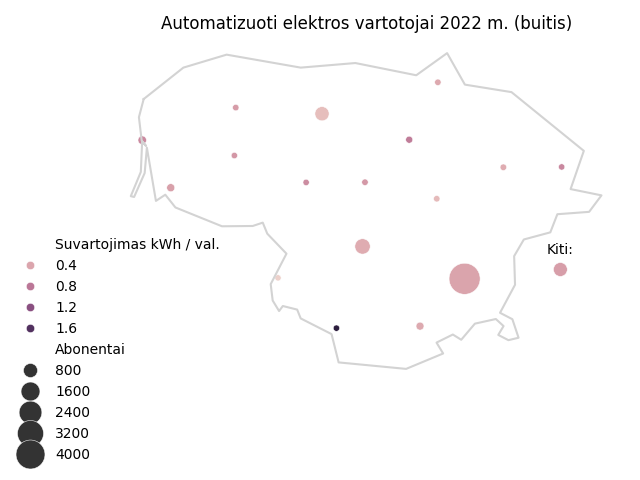
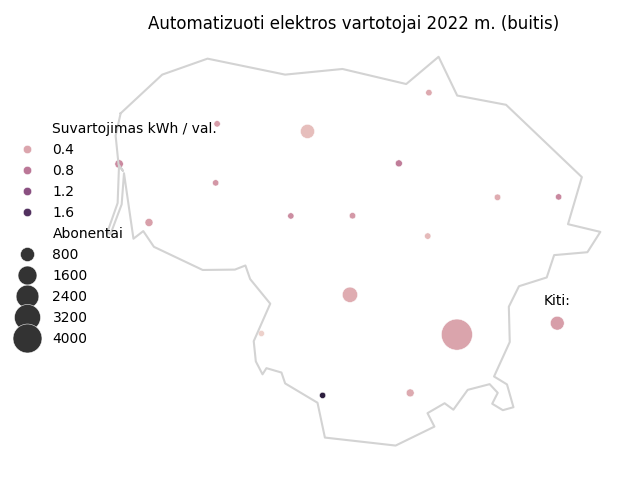
žemėlapyje didesnes legendas visada nustumti į kairio krašto vidurį

diff --git a/zemelapis.py b/zemelapis.py
@@ -163,26 +163,12 @@ def žemėlapis(duomenys=None, skersmuo=None, spalva=None, stilius=None,
     if len(kintamieji_su_pavadinimu) < 2:  # nėra ar tik 1 duomenų kintamasis legendoje
         plt.legend(loc='lower left')  # legendos vieta apačioje kairėje
     else:
-        if (all([len(k) < 10 for k in kintamieji_su_pavadinimu]) or  # trumpi pavadinimai užima mažiau vietos
-                len(duomenys['Regionas'].unique()) < 6):
-            sns.move_legend(
-                ax, "lower left", bbox_to_anchor=(-0.14, -0.14),  # nustumti dar papildomai į kairę
-                ncol=len(kintamieji_su_pavadinimu),  # stulpelių skaičius
-                frameon=False  # be rėmelio pusiau skaidraus fono
-            )
-        elif all([len(k) < 15 for k in kintamieji_su_pavadinimu]):  # vidutinio ilgio
-            sns.move_legend(  # gerai žiūrisi su gyventojais pagal amžių
-                # ax, 'lower left', bbox_to_anchor=(-0.1, -0.15),  # nustumti dar papildomai į kairę
-                ax, 'center left', bbox_to_anchor=(-0.15, 0.54),  # nustumti dar papildomai į kairę
-                # ax, "lower left", bbox_to_anchor=(-0.2, 0.2),  # nustumti dar papildomai į kairę
-                frameon=False  # be rėmelio pusiau skaidraus fono
-            )
-        else:  # didesnės lentelės
-            sns.move_legend(
-                ax, 'center left', bbox_to_anchor=(-0.2, 0.1),  # nustumti dar papildomai į kairę
-                # ax, "lower left", bbox_to_anchor=(-0.2, 0.2),  # nustumti dar papildomai į kairę
-                frameon=False  # be rėmelio pusiau skaidraus fono
-            )
+        sns.move_legend(  # gerai žiūrisi su gyventojais pagal amžių
+            # ax, 'lower left', bbox_to_anchor=(-0.1, -0.15),  # nustumti dar papildomai į kairę
+            ax, 'center left', bbox_to_anchor=(-0.15, 0.54),  # nustumti dar papildomai į kairę
+            # ax, "lower left", bbox_to_anchor=(-0.2, 0.2),  # nustumti dar papildomai į kairę
+            frameon=False  # be rėmelio pusiau skaidraus fono
+        )
 
     if pavadinimas:
         plt.title(pavadinimas)
